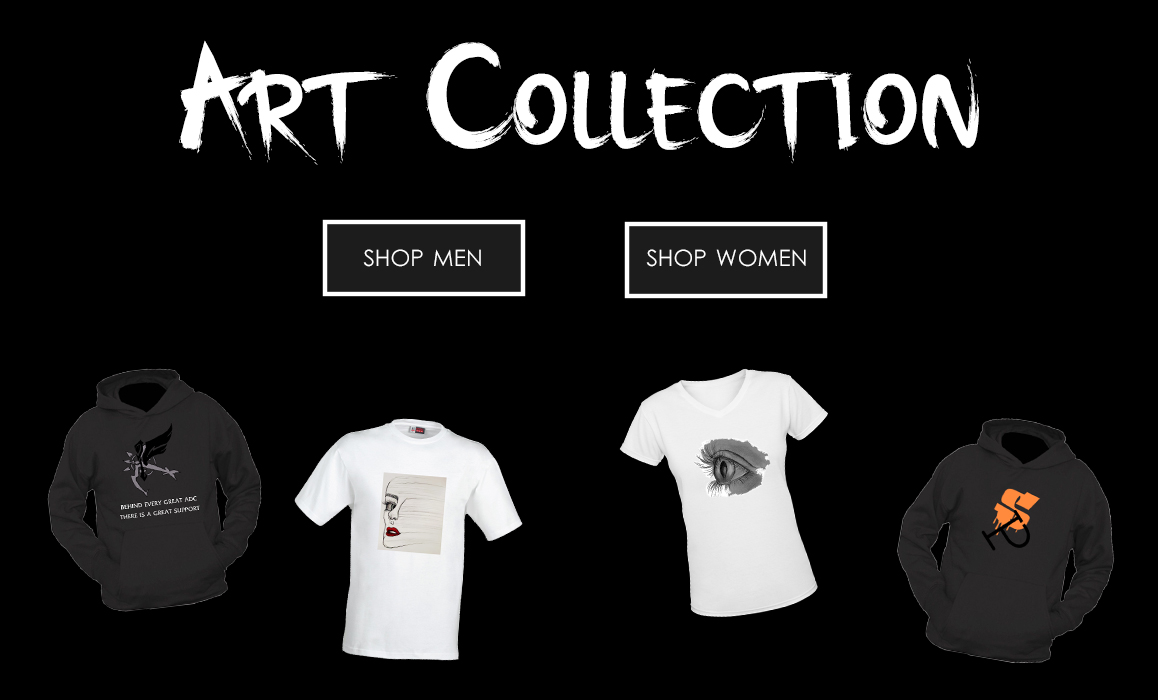
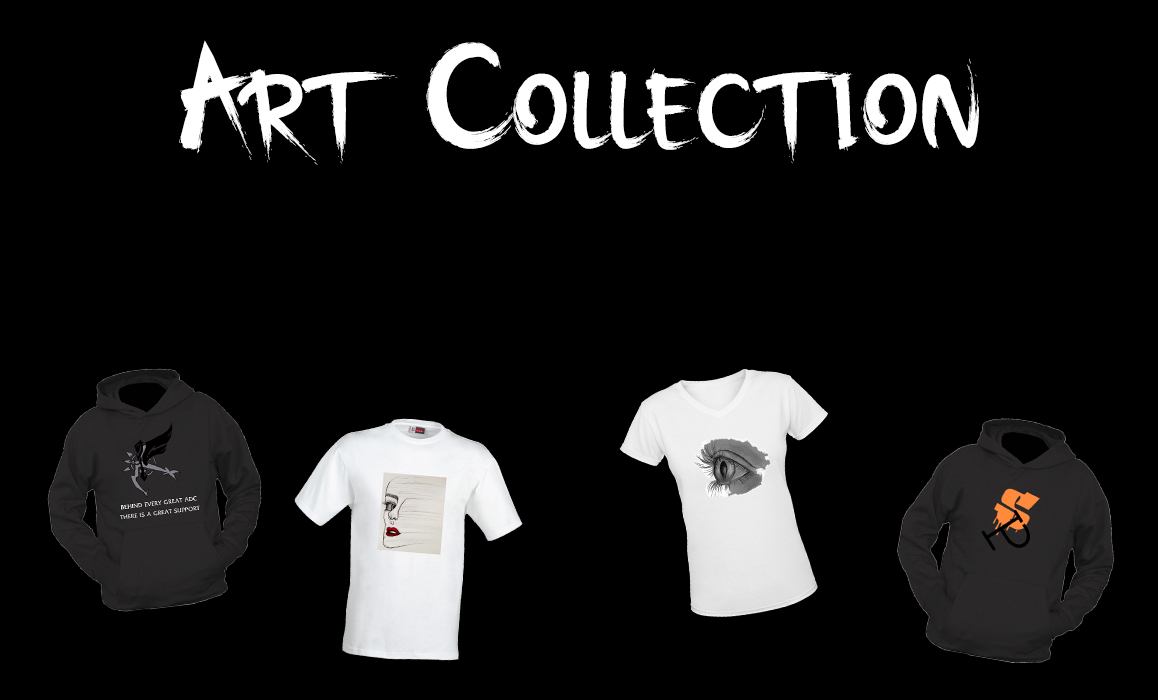
added shop collection and made instagram page

Changed region(s): [[0.5285, 0.3, 0.715, 0.45], [0.2798, 0.3, 0.4663, 0.45]]

diff --git a/shadowbox/shadowbox.js b/shadowbox/shadowbox.js
@@ -1,0 +1,17 @@
+/*
+ * Shadowbox.js, version 3.0.3
+ * http://shadowbox-js.com/
+ *
+ * Copyright 2007-2010, Michael J. I. Jackson
+ * Date: 2011-05-14 14:18:39 +0000
+ */
+(function(au,k){var Q={version:"3.0.3"};var J=navigator.userAgent.toLowerCase();if(J.indexOf("windows")>-1||J.indexOf("win32")>-1){Q.isWindows=true}else{if(J.indexOf("macintosh")>-1||J.indexOf("mac os x")>-1){Q.isMac=true}else{if(J.indexOf("linux")>-1){Q.isLinux=true}}}Q.isIE=J.indexOf("msie")>-1;Q.isIE6=J.indexOf("msie 6")>-1;Q.isIE7=J.indexOf("msie 7")>-1;Q.isGecko=J.indexOf("gecko")>-1&&J.indexOf("safari")==-1;Q.isWebKit=J.indexOf("applewebkit/")>-1;var ab=/#(.+)$/,af=/^(light|shadow)box\[(.*?)\]/i,az=/\s*([a-z_]*?)\s*=\s*(.+)\s*/,f=/[0-9a-z]+$/i,aD=/(.+\/)shadowbox\.js/i;var A=false,a=false,l={},z=0,R,ap;Q.current=-1;Q.dimensions=null;Q.ease=function(K){return 1+Math.pow(K-1,3)};Q.errorInfo={fla:{name:"Flash",url:"http://www.adobe.com/products/flashplayer/"},qt:{name:"QuickTime",url:"http://www.apple.com/quicktime/download/"},wmp:{name:"Windows Media Player",url:"http://www.microsoft.com/windows/windowsmedia/"},f4m:{name:"Flip4Mac",url:"http://www.flip4mac.com/wmv_download.htm"}};Q.gallery=[];Q.onReady=aj;Q.path=null;Q.player=null;Q.playerId="sb-player";Q.options={animate:true,animateFade:true,autoplayMovies:true,continuous:false,enableKeys:true,flashParams:{bgcolor:"#000000",allowfullscreen:true},flashVars:{},flashVersion:"9.0.115",handleOversize:"resize",handleUnsupported:"link",onChange:aj,onClose:aj,onFinish:aj,onOpen:aj,showMovieControls:true,skipSetup:false,slideshowDelay:0,viewportPadding:20};Q.getCurrent=function(){return Q.current>-1?Q.gallery[Q.current]:null};Q.hasNext=function(){return Q.gallery.length>1&&(Q.current!=Q.gallery.length-1||Q.options.continuous)};Q.isOpen=function(){return A};Q.isPaused=function(){return ap=="pause"};Q.applyOptions=function(K){l=aC({},Q.options);aC(Q.options,K)};Q.revertOptions=function(){aC(Q.options,l)};Q.init=function(aG,aJ){if(a){return}a=true;if(Q.skin.options){aC(Q.options,Q.skin.options)}if(aG){aC(Q.options,aG)}if(!Q.path){var aI,S=document.getElementsByTagName("script");for(var aH=0,K=S.length;aH<K;++aH){aI=aD.exec(S[aH].src);if(aI){Q.path=aI[1];break}}}if(aJ){Q.onReady=aJ}P()};Q.open=function(S){if(A){return}var K=Q.makeGallery(S);Q.gallery=K[0];Q.current=K[1];S=Q.getCurrent();if(S==null){return}Q.applyOptions(S.options||{});G();if(Q.gallery.length){S=Q.getCurrent();if(Q.options.onOpen(S)===false){return}A=true;Q.skin.onOpen(S,c)}};Q.close=function(){if(!A){return}A=false;if(Q.player){Q.player.remove();Q.player=null}if(typeof ap=="number"){clearTimeout(ap);ap=null}z=0;aq(false);Q.options.onClose(Q.getCurrent());Q.skin.onClose();Q.revertOptions()};Q.play=function(){if(!Q.hasNext()){return}if(!z){z=Q.options.slideshowDelay*1000}if(z){R=aw();ap=setTimeout(function(){z=R=0;Q.next()},z);if(Q.skin.onPlay){Q.skin.onPlay()}}};Q.pause=function(){if(typeof ap!="number"){return}z=Math.max(0,z-(aw()-R));if(z){clearTimeout(ap);ap="pause";if(Q.skin.onPause){Q.skin.onPause()}}};Q.change=function(K){if(!(K in Q.gallery)){if(Q.options.continuous){K=(K<0?Q.gallery.length+K:0);if(!(K in Q.gallery)){return}}else{return}}Q.current=K;if(typeof ap=="number"){clearTimeout(ap);ap=null;z=R=0}Q.options.onChange(Q.getCurrent());c(true)};Q.next=function(){Q.change(Q.current+1)};Q.previous=function(){Q.change(Q.current-1)};Q.setDimensions=function(aS,aJ,aQ,aR,aI,K,aO,aL){var aN=aS,aH=aJ;var aM=2*aO+aI;if(aS+aM>aQ){aS=aQ-aM}var aG=2*aO+K;if(aJ+aG>aR){aJ=aR-aG}var S=(aN-aS)/aN,aP=(aH-aJ)/aH,aK=(S>0||aP>0);if(aL&&aK){if(S>aP){aJ=Math.round((aH/aN)*aS)}else{if(aP>S){aS=Math.round((aN/aH)*aJ)}}}Q.dimensions={height:aS+aI,width:aJ+K,innerHeight:aS,innerWidth:aJ,top:Math.floor((aQ-(aS+aM))/2+aO),left:Math.floor((aR-(aJ+aG))/2+aO),oversized:aK};return Q.dimensions};Q.makeGallery=function(aI){var K=[],aH=-1;if(typeof aI=="string"){aI=[aI]}if(typeof aI.length=="number"){aF(aI,function(aK,aL){if(aL.content){K[aK]=aL}else{K[aK]={content:aL}}});aH=0}else{if(aI.tagName){var S=Q.getCache(aI);aI=S?S:Q.makeObject(aI)}if(aI.gallery){K=[];var aJ;for(var aG in Q.cache){aJ=Q.cache[aG];if(aJ.gallery&&aJ.gallery==aI.gallery){if(aH==-1&&aJ.content==aI.content){aH=K.length}K.push(aJ)}}if(aH==-1){K.unshift(aI);aH=0}}else{K=[aI];aH=0}}aF(K,function(aK,aL){K[aK]=aC({},aL)});return[K,aH]};Q.makeObject=function(aH,aG){var aI={content:aH.href,title:aH.getAttribute("title")||"",link:aH};if(aG){aG=aC({},aG);aF(["player","title","height","width","gallery"],function(aJ,aK){if(typeof aG[aK]!="undefined"){aI[aK]=aG[aK];delete aG[aK]}});aI.options=aG}else{aI.options={}}if(!aI.player){aI.player=Q.getPlayer(aI.content)}var K=aH.getAttribute("rel");if(K){var S=K.match(af);if(S){aI.gallery=escape(S[2])}aF(K.split(";"),function(aJ,aK){S=aK.match(az);if(S){aI[S[1]]=S[2]}})}return aI};Q.getPlayer=function(aG){if(aG.indexOf("#")>-1&&aG.indexOf(document.location.href)==0){return"inline"}var aH=aG.indexOf("?");if(aH>-1){aG=aG.substring(0,aH)}var S,K=aG.match(f);if(K){S=K[0].toLowerCase()}if(S){if(Q.img&&Q.img.ext.indexOf(S)>-1){return"img"}if(Q.swf&&Q.swf.ext.indexOf(S)>-1){return"swf"}if(Q.flv&&Q.flv.ext.indexOf(S)>-1){return"flv"}if(Q.qt&&Q.qt.ext.indexOf(S)>-1){if(Q.wmp&&Q.wmp.ext.indexOf(S)>-1){return"qtwmp"}else{return"qt"}}if(Q.wmp&&Q.wmp.ext.indexOf(S)>-1){return"wmp"}}return"iframe"};function G(){var aH=Q.errorInfo,aI=Q.plugins,aK,aL,aO,aG,aN,S,aM,K;for(var aJ=0;aJ<Q.gallery.length;++aJ){aK=Q.gallery[aJ];aL=false;aO=null;switch(aK.player){case"flv":case"swf":if(!aI.fla){aO="fla"}break;case"qt":if(!aI.qt){aO="qt"}break;case"wmp":if(Q.isMac){if(aI.qt&&aI.f4m){aK.player="qt"}else{aO="qtf4m"}}else{if(!aI.wmp){aO="wmp"}}break;case"qtwmp":if(aI.qt){aK.player="qt"}else{if(aI.wmp){aK.player="wmp"}else{aO="qtwmp"}}break}if(aO){if(Q.options.handleUnsupported=="link"){switch(aO){case"qtf4m":aN="shared";S=[aH.qt.url,aH.qt.name,aH.f4m.url,aH.f4m.name];break;case"qtwmp":aN="either";S=[aH.qt.url,aH.qt.name,aH.wmp.url,aH.wmp.name];break;default:aN="single";S=[aH[aO].url,aH[aO].name]}aK.player="html";aK.content='<div class="sb-message">'+s(Q.lang.errors[aN],S)+"</div>"}else{aL=true}}else{if(aK.player=="inline"){aG=ab.exec(aK.content);if(aG){aM=ad(aG[1]);if(aM){aK.content=aM.innerHTML}else{aL=true}}else{aL=true}}else{if(aK.player=="swf"||aK.player=="flv"){K=(aK.options&&aK.options.flashVersion)||Q.options.flashVersion;if(Q.flash&&!Q.flash.hasFlashPlayerVersion(K)){aK.width=310;aK.height=177}}}}if(aL){Q.gallery.splice(aJ,1);if(aJ<Q.current){--Q.current}else{if(aJ==Q.current){Q.current=aJ>0?aJ-1:aJ}}--aJ}}}function aq(K){if(!Q.options.enableKeys){return}(K?F:M)(document,"keydown",an)}function an(aG){if(aG.metaKey||aG.shiftKey||aG.altKey||aG.ctrlKey){return}var S=v(aG),K;switch(S){case 81:case 88:case 27:K=Q.close;break;case 37:K=Q.previous;break;case 39:K=Q.next;break;case 32:K=typeof ap=="number"?Q.pause:Q.play;break}if(K){n(aG);K()}}function c(aK){aq(false);var aJ=Q.getCurrent();var aG=(aJ.player=="inline"?"html":aJ.player);if(typeof Q[aG]!="function"){throw"unknown player "+aG}if(aK){Q.player.remove();Q.revertOptions();Q.applyOptions(aJ.options||{})}Q.player=new Q[aG](aJ,Q.playerId);if(Q.gallery.length>1){var aH=Q.gallery[Q.current+1]||Q.gallery[0];if(aH.player=="img"){var S=new Image();S.src=aH.content}var aI=Q.gallery[Q.current-1]||Q.gallery[Q.gallery.length-1];if(aI.player=="img"){var K=new Image();K.src=aI.content}}Q.skin.onLoad(aK,W)}function W(){if(!A){return}if(typeof Q.player.ready!="undefined"){var K=setInterval(function(){if(A){if(Q.player.ready){clearInterval(K);K=null;Q.skin.onReady(e)}}else{clearInterval(K);K=null}},10)}else{Q.skin.onReady(e)}}function e(){if(!A){return}Q.player.append(Q.skin.body,Q.dimensions);Q.skin.onShow(I)}function I(){if(!A){return}if(Q.player.onLoad){Q.player.onLoad()}Q.options.onFinish(Q.getCurrent());if(!Q.isPaused()){Q.play()}aq(true)}if(!Array.prototype.indexOf){Array.prototype.indexOf=function(S,aG){var K=this.length>>>0;aG=aG||0;if(aG<0){aG+=K}for(;aG<K;++aG){if(aG in this&&this[aG]===S){return aG}}return -1}}function aw(){return(new Date).getTime()}function aC(K,aG){for(var S in aG){K[S]=aG[S]}return K}function aF(aH,aI){var S=0,K=aH.length;for(var aG=aH[0];S<K&&aI.call(aG,S,aG)!==false;aG=aH[++S]){}}function s(S,K){return S.replace(/\{(\w+?)\}/g,function(aG,aH){return K[aH]})}function aj(){}function ad(K){return document.getElementById(K)}function C(K){K.parentNode.removeChild(K)}var h=true,x=true;function d(){var K=document.body,S=document.createElement("div");h=typeof S.style.opacity==="string";S.style.position="fixed";S.style.margin=0;S.style.top="20px";K.appendChild(S,K.firstChild);x=S.offsetTop==20;K.removeChild(S)}Q.getStyle=(function(){var K=/opacity=([^)]*)/,S=document.defaultView&&document.defaultView.getComputedStyle;return function(aJ,aI){var aH;if(!h&&aI=="opacity"&&aJ.currentStyle){aH=K.test(aJ.currentStyle.filter||"")?(parseFloat(RegExp.$1)/100)+"":"";return aH===""?"1":aH}if(S){var aG=S(aJ,null);if(aG){aH=aG[aI]}if(aI=="opacity"&&aH==""){aH="1"}}else{aH=aJ.currentStyle[aI]}return aH}})();Q.appendHTML=function(aG,S){if(aG.insertAdjacentHTML){aG.insertAdjacentHTML("BeforeEnd",S)}else{if(aG.lastChild){var K=aG.ownerDocument.createRange();K.setStartAfter(aG.lastChild);var aH=K.createContextualFragment(S);aG.appendChild(aH)}else{aG.innerHTML=S}}};Q.getWindowSize=function(K){if(document.compatMode==="CSS1Compat"){return document.documentElement["client"+K]}return document.body["client"+K]};Q.setOpacity=function(aG,K){var S=aG.style;if(h){S.opacity=(K==1?"":K)}else{S.zoom=1;if(K==1){if(typeof S.filter=="string"&&(/alpha/i).test(S.filter)){S.filter=S.filter.replace(/\s*[\w\.]*alpha\([^\)]*\);?/gi,"")}}else{S.filter=(S.filter||"").replace(/\s*[\w\.]*alpha\([^\)]*\)/gi,"")+" alpha(opacity="+(K*100)+")"}}};Q.clearOpacity=function(K){Q.setOpacity(K,1)};function o(S){var K=S.target?S.target:S.srcElement;return K.nodeType==3?K.parentNode:K}function V(S){var K=S.pageX||(S.clientX+(document.documentElement.scrollLeft||document.body.scrollLeft)),aG=S.pageY||(S.clientY+(document.documentElement.scrollTop||document.body.scrollTop));return[K,aG]}function n(K){K.preventDefault()}function v(K){return K.which?K.which:K.keyCode}function F(aH,aG,S){if(aH.addEventListener){aH.addEventListener(aG,S,false)}else{if(aH.nodeType===3||aH.nodeType===8){return}if(aH.setInterval&&(aH!==au&&!aH.frameElement)){aH=au}if(!S.__guid){S.__guid=F.guid++}if(!aH.events){aH.events={}}var K=aH.events[aG];if(!K){K=aH.events[aG]={};if(aH["on"+aG]){K[0]=aH["on"+aG]}}K[S.__guid]=S;aH["on"+aG]=F.handleEvent}}F.guid=1;F.handleEvent=function(aH){var K=true;aH=aH||F.fixEvent(((this.ownerDocument||this.document||this).parentWindow||au).event);var S=this.events[aH.type];for(var aG in S){this.__handleEvent=S[aG];if(this.__handleEvent(aH)===false){K=false}}return K};F.preventDefault=function(){this.returnValue=false};F.stopPropagation=function(){this.cancelBubble=true};F.fixEvent=function(K){K.preventDefault=F.preventDefault;K.stopPropagation=F.stopPropagation;return K};function M(aG,S,K){if(aG.removeEventListener){aG.removeEventListener(S,K,false)}else{if(aG.events&&aG.events[S]){delete aG.events[S][K.__guid]}}}var y=false,al;if(document.addEventListener){al=function(){document.removeEventListener("DOMContentLoaded",al,false);Q.load()}}else{if(document.attachEvent){al=function(){if(document.readyState==="complete"){document.detachEvent("onreadystatechange",al);Q.load()}}}}function g(){if(y){return}try{document.documentElement.doScroll("left")}catch(K){setTimeout(g,1);return}Q.load()}function P(){if(document.readyState==="complete"){return Q.load()}if(document.addEventListener){document.addEventListener("DOMContentLoaded",al,false);au.addEventListener("load",Q.load,false)}else{if(document.attachEvent){document.attachEvent("onreadystatechange",al);au.attachEvent("onload",Q.load);var K=false;try{K=au.frameElement===null}catch(S){}if(document.documentElement.doScroll&&K){g()}}}}Q.load=function(){if(y){return}if(!document.body){return setTimeout(Q.load,13)}y=true;d();Q.onReady();if(!Q.options.skipSetup){Q.setup()}Q.skin.init()};Q.plugins={};if(navigator.plugins&&navigator.plugins.length){var w=[];aF(navigator.plugins,function(K,S){w.push(S.name)});w=w.join(",");var ai=w.indexOf("Flip4Mac")>-1;Q.plugins={fla:w.indexOf("Shockwave Flash")>-1,qt:w.indexOf("QuickTime")>-1,wmp:!ai&&w.indexOf("Windows Media")>-1,f4m:ai}}else{var p=function(K){var S;try{S=new ActiveXObject(K)}catch(aG){}return !!S};Q.plugins={fla:p("ShockwaveFlash.ShockwaveFlash"),qt:p("QuickTime.QuickTime"),wmp:p("wmplayer.ocx"),f4m:false}}var X=/^(light|shadow)box/i,am="shadowboxCacheKey",b=1;Q.cache={};Q.select=function(S){var aG=[];if(!S){var K;aF(document.getElementsByTagName("a"),function(aJ,aK){K=aK.getAttribute("rel");if(K&&X.test(K)){aG.push(aK)}})}else{var aI=S.length;if(aI){if(typeof S=="string"){if(Q.find){aG=Q.find(S)}}else{if(aI==2&&typeof S[0]=="string"&&S[1].nodeType){if(Q.find){aG=Q.find(S[0],S[1])}}else{for(var aH=0;aH<aI;++aH){aG[aH]=S[aH]}}}}else{aG.push(S)}}return aG};Q.setup=function(K,S){aF(Q.select(K),function(aG,aH){Q.addCache(aH,S)})};Q.teardown=function(K){aF(Q.select(K),function(S,aG){Q.removeCache(aG)})};Q.addCache=function(aG,K){var S=aG[am];if(S==k){S=b++;aG[am]=S;F(aG,"click",u)}Q.cache[S]=Q.makeObject(aG,K)};Q.removeCache=function(K){M(K,"click",u);delete Q.cache[K[am]];K[am]=null};Q.getCache=function(S){var K=S[am];return(K in Q.cache&&Q.cache[K])};Q.clearCache=function(){for(var K in Q.cache){Q.removeCache(Q.cache[K].link)}Q.cache={}};function u(K){Q.open(this);if(Q.gallery.length){n(K)}}
+/*
+ * Sizzle CSS Selector Engine - v1.0
+ *  Copyright 2009, The Dojo Foundation
+ *  Released under the MIT, BSD, and GPL Licenses.
+ *  More information: http://sizzlejs.com/
+ *
+ * Modified for inclusion in Shadowbox.js
+ */
+Q.find=(function(){var aP=/((?:\((?:\([^()]+\)|[^()]+)+\)|\[(?:\[[^[\]]*\]|['"][^'"]*['"]|[^[\]'"]+)+\]|\\.|[^ >+~,(\[\\]+)+|[>+~])(\s*,\s*)?((?:.|\r|\n)*)/g,aQ=0,aS=Object.prototype.toString,aK=false,aJ=true;[0,0].sort(function(){aJ=false;return 0});var aG=function(a1,aW,a4,a5){a4=a4||[];var a7=aW=aW||document;if(aW.nodeType!==1&&aW.nodeType!==9){return[]}if(!a1||typeof a1!=="string"){return a4}var a2=[],aY,a9,bc,aX,a0=true,aZ=aH(aW),a6=a1;while((aP.exec(""),aY=aP.exec(a6))!==null){a6=aY[3];a2.push(aY[1]);if(aY[2]){aX=aY[3];break}}if(a2.length>1&&aL.exec(a1)){if(a2.length===2&&aM.relative[a2[0]]){a9=aT(a2[0]+a2[1],aW)}else{a9=aM.relative[a2[0]]?[aW]:aG(a2.shift(),aW);while(a2.length){a1=a2.shift();if(aM.relative[a1]){a1+=a2.shift()}a9=aT(a1,a9)}}}else{if(!a5&&a2.length>1&&aW.nodeType===9&&!aZ&&aM.match.ID.test(a2[0])&&!aM.match.ID.test(a2[a2.length-1])){var a8=aG.find(a2.shift(),aW,aZ);aW=a8.expr?aG.filter(a8.expr,a8.set)[0]:a8.set[0]}if(aW){var a8=a5?{expr:a2.pop(),set:aO(a5)}:aG.find(a2.pop(),a2.length===1&&(a2[0]==="~"||a2[0]==="+")&&aW.parentNode?aW.parentNode:aW,aZ);a9=a8.expr?aG.filter(a8.expr,a8.set):a8.set;if(a2.length>0){bc=aO(a9)}else{a0=false}while(a2.length){var bb=a2.pop(),ba=bb;if(!aM.relative[bb]){bb=""}else{ba=a2.pop()}if(ba==null){ba=aW}aM.relative[bb](bc,ba,aZ)}}else{bc=a2=[]}}if(!bc){bc=a9}if(!bc){throw"Syntax error, unrecognized expression: "+(bb||a1)}if(aS.call(bc)==="[object Array]"){if(!a0){a4.push.apply(a4,bc)}else{if(aW&&aW.nodeType===1){for(var a3=0;bc[a3]!=null;a3++){if(bc[a3]&&(bc[a3]===true||bc[a3].nodeType===1&&aN(aW,bc[a3]))){a4.push(a9[a3])}}}else{for(var a3=0;bc[a3]!=null;a3++){if(bc[a3]&&bc[a3].nodeType===1){a4.push(a9[a3])}}}}}else{aO(bc,a4)}if(aX){aG(aX,a7,a4,a5);aG.uniqueSort(a4)}return a4};aG.uniqueSort=function(aX){if(aR){aK=aJ;aX.sort(aR);if(aK){for(var aW=1;aW<aX.length;aW++){if(aX[aW]===aX[aW-1]){aX.splice(aW--,1)}}}}return aX};aG.matches=function(aW,aX){return aG(aW,null,null,aX)};aG.find=function(a3,aW,a4){var a2,a0;if(!a3){return[]}for(var aZ=0,aY=aM.order.length;aZ<aY;aZ++){var a1=aM.order[aZ],a0;if((a0=aM.leftMatch[a1].exec(a3))){var aX=a0[1];a0.splice(1,1);if(aX.substr(aX.length-1)!=="\\"){a0[1]=(a0[1]||"").replace(/\\/g,"");a2=aM.find[a1](a0,aW,a4);if(a2!=null){a3=a3.replace(aM.match[a1],"");break}}}}if(!a2){a2=aW.getElementsByTagName("*")}return{set:a2,expr:a3}};aG.filter=function(a6,a5,a9,aZ){var aY=a6,bb=[],a3=a5,a1,aW,a2=a5&&a5[0]&&aH(a5[0]);while(a6&&a5.length){for(var a4 in aM.filter){if((a1=aM.match[a4].exec(a6))!=null){var aX=aM.filter[a4],ba,a8;aW=false;if(a3===bb){bb=[]}if(aM.preFilter[a4]){a1=aM.preFilter[a4](a1,a3,a9,bb,aZ,a2);if(!a1){aW=ba=true}else{if(a1===true){continue}}}if(a1){for(var a0=0;(a8=a3[a0])!=null;a0++){if(a8){ba=aX(a8,a1,a0,a3);var a7=aZ^!!ba;if(a9&&ba!=null){if(a7){aW=true}else{a3[a0]=false}}else{if(a7){bb.push(a8);aW=true}}}}}if(ba!==k){if(!a9){a3=bb}a6=a6.replace(aM.match[a4],"");if(!aW){return[]}break}}}if(a6===aY){if(aW==null){throw"Syntax error, unrecognized expression: "+a6}else{break}}aY=a6}return a3};var aM=aG.selectors={order:["ID","NAME","TAG"],match:{ID:/#((?:[\w\u00c0-\uFFFF-]|\\.)+)/,CLASS:/\.((?:[\w\u00c0-\uFFFF-]|\\.)+)/,NAME:/\[name=['"]*((?:[\w\u00c0-\uFFFF-]|\\.)+)['"]*\]/,ATTR:/\[\s*((?:[\w\u00c0-\uFFFF-]|\\.)+)\s*(?:(\S?=)\s*(['"]*)(.*?)\3|)\s*\]/,TAG:/^((?:[\w\u00c0-\uFFFF\*-]|\\.)+)/,CHILD:/:(only|nth|last|first)-child(?:\((even|odd|[\dn+-]*)\))?/,POS:/:(nth|eq|gt|lt|first|last|even|odd)(?:\((\d*)\))?(?=[^-]|$)/,PSEUDO:/:((?:[\w\u00c0-\uFFFF-]|\\.)+)(?:\((['"]*)((?:\([^\)]+\)|[^\2\(\)]*)+)\2\))?/},leftMatch:{},attrMap:{"class":"className","for":"htmlFor"},attrHandle:{href:function(aW){return aW.getAttribute("href")}},relative:{"+":function(a2,aX){var aZ=typeof aX==="string",a1=aZ&&!/\W/.test(aX),a3=aZ&&!a1;if(a1){aX=aX.toLowerCase()}for(var aY=0,aW=a2.length,a0;aY<aW;aY++){if((a0=a2[aY])){while((a0=a0.previousSibling)&&a0.nodeType!==1){}a2[aY]=a3||a0&&a0.nodeName.toLowerCase()===aX?a0||false:a0===aX}}if(a3){aG.filter(aX,a2,true)}},">":function(a2,aX){var a0=typeof aX==="string";if(a0&&!/\W/.test(aX)){aX=aX.toLowerCase();for(var aY=0,aW=a2.length;aY<aW;aY++){var a1=a2[aY];if(a1){var aZ=a1.parentNode;a2[aY]=aZ.nodeName.toLowerCase()===aX?aZ:false}}}else{for(var aY=0,aW=a2.length;aY<aW;aY++){var a1=a2[aY];if(a1){a2[aY]=a0?a1.parentNode:a1.parentNode===aX}}if(a0){aG.filter(aX,a2,true)}}},"":function(aZ,aX,a1){var aY=aQ++,aW=aU;if(typeof aX==="string"&&!/\W/.test(aX)){var a0=aX=aX.toLowerCase();aW=K}aW("parentNode",aX,aY,aZ,a0,a1)},"~":function(aZ,aX,a1){var aY=aQ++,aW=aU;if(typeof aX==="string"&&!/\W/.test(aX)){var a0=aX=aX.toLowerCase();aW=K}aW("previousSibling",aX,aY,aZ,a0,a1)}},find:{ID:function(aX,aY,aZ){if(typeof aY.getElementById!=="undefined"&&!aZ){var aW=aY.getElementById(aX[1]);return aW?[aW]:[]}},NAME:function(aY,a1){if(typeof a1.getElementsByName!=="undefined"){var aX=[],a0=a1.getElementsByName(aY[1]);for(var aZ=0,aW=a0.length;aZ<aW;aZ++){if(a0[aZ].getAttribute("name")===aY[1]){aX.push(a0[aZ])}}return aX.length===0?null:aX}},TAG:function(aW,aX){return aX.getElementsByTagName(aW[1])}},preFilter:{CLASS:function(aZ,aX,aY,aW,a2,a3){aZ=" "+aZ[1].replace(/\\/g,"")+" ";if(a3){return aZ}for(var a0=0,a1;(a1=aX[a0])!=null;a0++){if(a1){if(a2^(a1.className&&(" "+a1.className+" ").replace(/[\t\n]/g," ").indexOf(aZ)>=0)){if(!aY){aW.push(a1)}}else{if(aY){aX[a0]=false}}}}return false},ID:function(aW){return aW[1].replace(/\\/g,"")},TAG:function(aX,aW){return aX[1].toLowerCase()},CHILD:function(aW){if(aW[1]==="nth"){var aX=/(-?)(\d*)n((?:\+|-)?\d*)/.exec(aW[2]==="even"&&"2n"||aW[2]==="odd"&&"2n+1"||!/\D/.test(aW[2])&&"0n+"+aW[2]||aW[2]);aW[2]=(aX[1]+(aX[2]||1))-0;aW[3]=aX[3]-0}aW[0]=aQ++;return aW},ATTR:function(a0,aX,aY,aW,a1,a2){var aZ=a0[1].replace(/\\/g,"");if(!a2&&aM.attrMap[aZ]){a0[1]=aM.attrMap[aZ]}if(a0[2]==="~="){a0[4]=" "+a0[4]+" "}return a0},PSEUDO:function(a0,aX,aY,aW,a1){if(a0[1]==="not"){if((aP.exec(a0[3])||"").length>1||/^\w/.test(a0[3])){a0[3]=aG(a0[3],null,null,aX)}else{var aZ=aG.filter(a0[3],aX,aY,true^a1);if(!aY){aW.push.apply(aW,aZ)}return false}}else{if(aM.match.POS.test(a0[0])||aM.match.CHILD.test(a0[0])){return true}}return a0},POS:function(aW){aW.unshift(true);return aW}},filters:{enabled:function(aW){return aW.disabled===false&&aW.type!=="hidden"},disabled:function(aW){return aW.disabled===true},checked:function(aW){return aW.checked===true},selected:function(aW){aW.parentNode.selectedIndex;return aW.selected===true},parent:function(aW){return !!aW.firstChild},empty:function(aW){return !aW.firstChild},has:function(aY,aX,aW){return !!aG(aW[3],aY).length},header:function(aW){return/h\d/i.test(aW.nodeName)},text:function(aW){return"text"===aW.type},radio:function(aW){return"radio"===aW.type},checkbox:function(aW){return"checkbox"===aW.type},file:function(aW){return"file"===aW.type},password:function(aW){return"password"===aW.type},submit:function(aW){return"submit"===aW.type},image:function(aW){return"image"===aW.type},reset:function(aW){return"reset"===aW.type},button:function(aW){return"button"===aW.type||aW.nodeName.toLowerCase()==="button"},input:function(aW){return/input|select|textarea|button/i.test(aW.nodeName)}},setFilters:{first:function(aX,aW){return aW===0},last:function(aY,aX,aW,aZ){return aX===aZ.length-1},even:function(aX,aW){return aW%2===0},odd:function(aX,aW){return aW%2===1},lt:function(aY,aX,aW){return aX<aW[3]-0},gt:function(aY,aX,aW){return aX>aW[3]-0},nth:function(aY,aX,aW){return aW[3]-0===aX},eq:function(aY,aX,aW){return aW[3]-0===aX}},filter:{PSEUDO:function(a2,aY,aZ,a3){var aX=aY[1],a0=aM.filters[aX];if(a0){return a0(a2,aZ,aY,a3)}else{if(aX==="contains"){return(a2.textContent||a2.innerText||S([a2])||"").indexOf(aY[3])>=0}else{if(aX==="not"){var a1=aY[3];for(var aZ=0,aW=a1.length;aZ<aW;aZ++){if(a1[aZ]===a2){return false}}return true}else{throw"Syntax error, unrecognized expression: "+aX}}}},CHILD:function(aW,aZ){var a2=aZ[1],aX=aW;switch(a2){case"only":case"first":while((aX=aX.previousSibling)){if(aX.nodeType===1){return false}}if(a2==="first"){return true}aX=aW;case"last":while((aX=aX.nextSibling)){if(aX.nodeType===1){return false}}return true;case"nth":var aY=aZ[2],a5=aZ[3];if(aY===1&&a5===0){return true}var a1=aZ[0],a4=aW.parentNode;if(a4&&(a4.sizcache!==a1||!aW.nodeIndex)){var a0=0;for(aX=a4.firstChild;aX;aX=aX.nextSibling){if(aX.nodeType===1){aX.nodeIndex=++a0}}a4.sizcache=a1}var a3=aW.nodeIndex-a5;if(aY===0){return a3===0}else{return(a3%aY===0&&a3/aY>=0)}}},ID:function(aX,aW){return aX.nodeType===1&&aX.getAttribute("id")===aW},TAG:function(aX,aW){return(aW==="*"&&aX.nodeType===1)||aX.nodeName.toLowerCase()===aW},CLASS:function(aX,aW){return(" "+(aX.className||aX.getAttribute("class"))+" ").indexOf(aW)>-1},ATTR:function(a1,aZ){var aY=aZ[1],aW=aM.attrHandle[aY]?aM.attrHandle[aY](a1):a1[aY]!=null?a1[aY]:a1.getAttribute(aY),a2=aW+"",a0=aZ[2],aX=aZ[4];return aW==null?a0==="!=":a0==="="?a2===aX:a0==="*="?a2.indexOf(aX)>=0:a0==="~="?(" "+a2+" ").indexOf(aX)>=0:!aX?a2&&aW!==false:a0==="!="?a2!==aX:a0==="^="?a2.indexOf(aX)===0:a0==="$="?a2.substr(a2.length-aX.length)===aX:a0==="|="?a2===aX||a2.substr(0,aX.length+1)===aX+"-":false},POS:function(a0,aX,aY,a1){var aW=aX[2],aZ=aM.setFilters[aW];if(aZ){return aZ(a0,aY,aX,a1)}}}};var aL=aM.match.POS;for(var aI in aM.match){aM.match[aI]=new RegExp(aM.match[aI].source+/(?![^\[]*\])(?![^\(]*\))/.source);aM.leftMatch[aI]=new RegExp(/(^(?:.|\r|\n)*?)/.source+aM.match[aI].source)}var aO=function(aX,aW){aX=Array.prototype.slice.call(aX,0);if(aW){aW.push.apply(aW,aX);return aW}return aX};try{Array.prototype.slice.call(document.documentElement.childNodes,0)}catch(aV){aO=function(a0,aZ){var aX=aZ||[];if(aS.call(a0)==="[object Array]"){Array.prototype.push.apply(aX,a0)}else{if(typeof a0.length==="number"){for(var aY=0,aW=a0.length;aY<aW;aY++){aX.push(a0[aY])}}else{for(var aY=0;a0[aY];aY++){aX.push(a0[aY])}}}return aX}}var aR;if(document.documentElement.compareDocumentPosition){aR=function(aX,aW){if(!aX.compareDocumentPosition||!aW.compareDocumentPosition){if(aX==aW){aK=true}return aX.compareDocumentPosition?-1:1}var aY=aX.compareDocumentPosition(aW)&4?-1:aX===aW?0:1;if(aY===0){aK=true}return aY}}else{if("sourceIndex" in document.documentElement){aR=function(aX,aW){if(!aX.sourceIndex||!aW.sourceIndex){if(aX==aW){aK=true}return aX.sourceIndex?-1:1}var aY=aX.sourceIndex-aW.sourceIndex;if(aY===0){aK=true}return aY}}else{if(document.createRange){aR=function(aZ,aX){if(!aZ.ownerDocument||!aX.ownerDocument){if(aZ==aX){aK=true}return aZ.ownerDocument?-1:1}var aY=aZ.ownerDocument.createRange(),aW=aX.ownerDocument.createRange();aY.setStart(aZ,0);aY.setEnd(aZ,0);aW.setStart(aX,0);aW.setEnd(aX,0);var a0=aY.compareBoundaryPoints(Range.START_TO_END,aW);if(a0===0){aK=true}return a0}}}}function S(aW){var aX="",aZ;for(var aY=0;aW[aY];aY++){aZ=aW[aY];if(aZ.nodeType===3||aZ.nodeType===4){aX+=aZ.nodeValue}else{if(aZ.nodeType!==8){aX+=S(aZ.childNodes)}}}return aX}(function(){var aX=document.createElement("div"),aY="script"+(new Date).getTime();aX.innerHTML="<a name='"+aY+"'/>";var aW=document.documentElement;aW.insertBefore(aX,aW.firstChild);if(document.getElementById(aY)){aM.find.ID=function(a0,a1,a2){if(typeof a1.getElementById!=="undefined"&&!a2){var aZ=a1.getElementById(a0[1]);return aZ?aZ.id===a0[1]||typeof aZ.getAttributeNode!=="undefined"&&aZ.getAttributeNode("id").nodeValue===a0[1]?[aZ]:k:[]}};aM.filter.ID=function(a1,aZ){var a0=typeof a1.getAttributeNode!=="undefined"&&a1.getAttributeNode("id");return a1.nodeType===1&&a0&&a0.nodeValue===aZ}}aW.removeChild(aX);aW=aX=null})();(function(){var aW=document.createElement("div");aW.appendChild(document.createComment(""));if(aW.getElementsByTagName("*").length>0){aM.find.TAG=function(aX,a1){var a0=a1.getElementsByTagName(aX[1]);if(aX[1]==="*"){var aZ=[];for(var aY=0;a0[aY];aY++){if(a0[aY].nodeType===1){aZ.push(a0[aY])}}a0=aZ}return a0}}aW.innerHTML="<a href='#'></a>";if(aW.firstChild&&typeof aW.firstChild.getAttribute!=="undefined"&&aW.firstChild.getAttribute("href")!=="#"){aM.attrHandle.href=function(aX){return aX.getAttribute("href",2)}}aW=null})();if(document.querySelectorAll){(function(){var aW=aG,aY=document.createElement("div");aY.innerHTML="<p class='TEST'></p>";if(aY.querySelectorAll&&aY.querySelectorAll(".TEST").length===0){return}aG=function(a2,a1,aZ,a0){a1=a1||document;if(!a0&&a1.nodeType===9&&!aH(a1)){try{return aO(a1.querySelectorAll(a2),aZ)}catch(a3){}}return aW(a2,a1,aZ,a0)};for(var aX in aW){aG[aX]=aW[aX]}aY=null})()}(function(){var aW=document.createElement("div");aW.innerHTML="<div class='test e'></div><div class='test'></div>";if(!aW.getElementsByClassName||aW.getElementsByClassName("e").length===0){return}aW.lastChild.className="e";if(aW.getElementsByClassName("e").length===1){return}aM.order.splice(1,0,"CLASS");aM.find.CLASS=function(aX,aY,aZ){if(typeof aY.getElementsByClassName!=="undefined"&&!aZ){return aY.getElementsByClassName(aX[1])}};aW=null})();function K(aX,a2,a1,a5,a3,a4){for(var aZ=0,aY=a5.length;aZ<aY;aZ++){var aW=a5[aZ];if(aW){aW=aW[aX];var a0=false;while(aW){if(aW.sizcache===a1){a0=a5[aW.sizset];break}if(aW.nodeType===1&&!a4){aW.sizcache=a1;aW.sizset=aZ}if(aW.nodeName.toLowerCase()===a2){a0=aW;break}aW=aW[aX]}a5[aZ]=a0}}}function aU(aX,a2,a1,a5,a3,a4){for(var aZ=0,aY=a5.length;aZ<aY;aZ++){var aW=a5[aZ];if(aW){aW=aW[aX];var a0=false;while(aW){if(aW.sizcache===a1){a0=a5[aW.sizset];break}if(aW.nodeType===1){if(!a4){aW.sizcache=a1;aW.sizset=aZ}if(typeof a2!=="string"){if(aW===a2){a0=true;break}}else{if(aG.filter(a2,[aW]).length>0){a0=aW;break}}}aW=aW[aX]}a5[aZ]=a0}}}var aN=document.compareDocumentPosition?function(aX,aW){return aX.compareDocumentPosition(aW)&16}:function(aX,aW){return aX!==aW&&(aX.contains?aX.contains(aW):true)};var aH=function(aW){var aX=(aW?aW.ownerDocument||aW:0).documentElement;return aX?aX.nodeName!=="HTML":false};var aT=function(aW,a3){var aZ=[],a0="",a1,aY=a3.nodeType?[a3]:a3;while((a1=aM.match.PSEUDO.exec(aW))){a0+=a1[0];aW=aW.replace(aM.match.PSEUDO,"")}aW=aM.relative[aW]?aW+"*":aW;for(var a2=0,aX=aY.length;a2<aX;a2++){aG(aW,aY[a2],aZ)}return aG.filter(a0,aZ)};return aG})();Q.lang={code:"de",of:"von",loading:"ladend",cancel:"Abbrechen",next:"Nächste",previous:"Vorige",play:"Abspielen",pause:"Pause",close:"Schließen",errors:{single:'Um den Inhalt anzeigen zu können muss die Browser-Erweiterung <a href="{0}">{1}</a> installiert werden.',shared:'Um den Inhalt anzeigen zu können müssen die beiden Browser-Erweiterungen <a href="{0}">{1}</a> und <a href="{2}">{3}</a> installiert werden.',either:'Um den Inhalt anzeigen zu können muss eine der beiden Browser-Erweiterungen <a href="{0}">{1}</a> oder <a href="{2}">{3}</a> installiert werden.'}};var D,at="sb-drag-proxy",E,j,ag;function ax(){E={x:0,y:0,startX:null,startY:null}}function aA(){var K=Q.dimensions;aC(j.style,{height:K.innerHeight+"px",width:K.innerWidth+"px"})}function O(){ax();var K=["position:absolute","cursor:"+(Q.isGecko?"-moz-grab":"move"),"background-color:"+(Q.isIE?"#fff;filter:alpha(opacity=0)":"transparent")].join(";");Q.appendHTML(Q.skin.body,'<div id="'+at+'" style="'+K+'"></div>');j=ad(at);aA();F(j,"mousedown",L)}function B(){if(j){M(j,"mousedown",L);C(j);j=null}ag=null}function L(S){n(S);var K=V(S);E.startX=K[0];E.startY=K[1];ag=ad(Q.player.id);F(document,"mousemove",H);F(document,"mouseup",i);if(Q.isGecko){j.style.cursor="-moz-grabbing"}}function H(aI){var K=Q.player,aJ=Q.dimensions,aH=V(aI);var aG=aH[0]-E.startX;E.startX+=aG;E.x=Math.max(Math.min(0,E.x+aG),aJ.innerWidth-K.width);var S=aH[1]-E.startY;E.startY+=S;E.y=Math.max(Math.min(0,E.y+S),aJ.innerHeight-K.height);aC(ag.style,{left:E.x+"px",top:E.y+"px"})}function i(){M(document,"mousemove",H);M(document,"mouseup",i);if(Q.isGecko){j.style.cursor="-moz-grab"}}Q.img=function(S,aG){this.obj=S;this.id=aG;this.ready=false;var K=this;D=new Image();D.onload=function(){K.height=S.height?parseInt(S.height,10):D.height;K.width=S.width?parseInt(S.width,10):D.width;K.ready=true;D.onload=null;D=null};D.src=S.content};Q.img.ext=["bmp","gif","jpg","jpeg","png"];Q.img.prototype={append:function(S,aI){var aG=document.createElement("img");aG.id=this.id;aG.src=this.obj.content;aG.style.position="absolute";var K,aH;if(aI.oversized&&Q.options.handleOversize=="resize"){K=aI.innerHeight;aH=aI.innerWidth}else{K=this.height;aH=this.width}aG.setAttribute("height",K);aG.setAttribute("width",aH);S.appendChild(aG)},remove:function(){var K=ad(this.id);if(K){C(K)}B();if(D){D.onload=null;D=null}},onLoad:function(){var K=Q.dimensions;if(K.oversized&&Q.options.handleOversize=="drag"){O()}},onWindowResize:function(){var aH=Q.dimensions;switch(Q.options.handleOversize){case"resize":var K=ad(this.id);K.height=aH.innerHeight;K.width=aH.innerWidth;break;case"drag":if(ag){var aG=parseInt(Q.getStyle(ag,"top")),S=parseInt(Q.getStyle(ag,"left"));if(aG+this.height<aH.innerHeight){ag.style.top=aH.innerHeight-this.height+"px"}if(S+this.width<aH.innerWidth){ag.style.left=aH.innerWidth-this.width+"px"}aA()}break}}};var ao=false,Y=[],q=["sb-nav-close","sb-nav-next","sb-nav-play","sb-nav-pause","sb-nav-previous"],aa,ae,Z,m=true;function N(aG,aQ,aN,aL,aR){var K=(aQ=="opacity"),aM=K?Q.setOpacity:function(aS,aT){aS.style[aQ]=""+aT+"px"};if(aL==0||(!K&&!Q.options.animate)||(K&&!Q.options.animateFade)){aM(aG,aN);if(aR){aR()}return}var aO=parseFloat(Q.getStyle(aG,aQ))||0;var aP=aN-aO;if(aP==0){if(aR){aR()}return}aL*=1000;var aH=aw(),aK=Q.ease,aJ=aH+aL,aI;var S=setInterval(function(){aI=aw();if(aI>=aJ){clearInterval(S);S=null;aM(aG,aN);if(aR){aR()}}else{aM(aG,aO+aK((aI-aH)/aL)*aP)}},10)}function aB(){aa.style.height=Q.getWindowSize("Height")+"px";aa.style.width=Q.getWindowSize("Width")+"px"}function aE(){aa.style.top=document.documentElement.scrollTop+"px";aa.style.left=document.documentElement.scrollLeft+"px"}function ay(K){if(K){aF(Y,function(S,aG){aG[0].style.visibility=aG[1]||""})}else{Y=[];aF(Q.options.troubleElements,function(aG,S){aF(document.getElementsByTagName(S),function(aH,aI){Y.push([aI,aI.style.visibility]);aI.style.visibility="hidden"})})}}function r(aG,K){var S=ad("sb-nav-"+aG);if(S){S.style.display=K?"":"none"}}function ah(K,aJ){var aI=ad("sb-loading"),aG=Q.getCurrent().player,aH=(aG=="img"||aG=="html");if(K){Q.setOpacity(aI,0);aI.style.display="block";var S=function(){Q.clearOpacity(aI);if(aJ){aJ()}};if(aH){N(aI,"opacity",1,Q.options.fadeDuration,S)}else{S()}}else{var S=function(){aI.style.display="none";Q.clearOpacity(aI);if(aJ){aJ()}};if(aH){N(aI,"opacity",0,Q.options.fadeDuration,S)}else{S()}}}function t(aO){var aJ=Q.getCurrent();ad("sb-title-inner").innerHTML=aJ.title||"";var aP,aL,S,aQ,aM;if(Q.options.displayNav){aP=true;var aN=Q.gallery.length;if(aN>1){if(Q.options.continuous){aL=aM=true}else{aL=(aN-1)>Q.current;aM=Q.current>0}}if(Q.options.slideshowDelay>0&&Q.hasNext()){aQ=!Q.isPaused();S=!aQ}}else{aP=aL=S=aQ=aM=false}r("close",aP);r("next",aL);r("play",S);r("pause",aQ);r("previous",aM);var K="";if(Q.options.displayCounter&&Q.gallery.length>1){var aN=Q.gallery.length;if(Q.options.counterType=="skip"){var aI=0,aH=aN,aG=parseInt(Q.options.counterLimit)||0;if(aG<aN&&aG>2){var aK=Math.floor(aG/2);aI=Q.current-aK;if(aI<0){aI+=aN}aH=Q.current+(aG-aK);if(aH>aN){aH-=aN}}while(aI!=aH){if(aI==aN){aI=0}K+='<a onclick="Shadowbox.change('+aI+');"';if(aI==Q.current){K+=' class="sb-counter-current"'}K+=">"+(++aI)+"</a>"}}else{K=[Q.current+1,Q.lang.of,aN].join(" ")}}ad("sb-counter").innerHTML=K;aO()}function U(aH){var K=ad("sb-title-inner"),aG=ad("sb-info-inner"),S=0.35;K.style.visibility=aG.style.visibility="";if(K.innerHTML!=""){N(K,"marginTop",0,S)}N(aG,"marginTop",0,S,aH)}function av(aG,aM){var aK=ad("sb-title"),K=ad("sb-info"),aH=aK.offsetHeight,aI=K.offsetHeight,aJ=ad("sb-title-inner"),aL=ad("sb-info-inner"),S=(aG?0.35:0);N(aJ,"marginTop",aH,S);N(aL,"marginTop",aI*-1,S,function(){aJ.style.visibility=aL.style.visibility="hidden";aM()})}function ac(K,aH,S,aJ){var aI=ad("sb-wrapper-inner"),aG=(S?Q.options.resizeDuration:0);N(Z,"top",aH,aG);N(aI,"height",K,aG,aJ)}function ar(K,aH,S,aI){var aG=(S?Q.options.resizeDuration:0);N(Z,"left",aH,aG);N(Z,"width",K,aG,aI)}function ak(aM,aG){var aI=ad("sb-body-inner"),aM=parseInt(aM),aG=parseInt(aG),S=Z.offsetHeight-aI.offsetHeight,K=Z.offsetWidth-aI.offsetWidth,aK=ae.offsetHeight,aL=ae.offsetWidth,aJ=parseInt(Q.options.viewportPadding)||20,aH=(Q.player&&Q.options.handleOversize!="drag");return Q.setDimensions(aM,aG,aK,aL,S,K,aJ,aH)}var T={};T.markup='<div id="sb-container"><div id="sb-overlay"></div><div id="sb-wrapper"><div id="sb-title"><div id="sb-title-inner"></div></div><div id="sb-wrapper-inner"><div id="sb-body"><div id="sb-body-inner"></div><div id="sb-loading"><div id="sb-loading-inner"><span>{loading}</span></div></div></div></div><div id="sb-info"><div id="sb-info-inner"><div id="sb-counter"></div><div id="sb-nav"><a id="sb-nav-close" title="{close}" onclick="Shadowbox.close()"></a><a id="sb-nav-next" title="{next}" onclick="Shadowbox.next()"></a><a id="sb-nav-play" title="{play}" onclick="Shadowbox.play()"></a><a id="sb-nav-pause" title="{pause}" onclick="Shadowbox.pause()"></a><a id="sb-nav-previous" title="{previous}" onclick="Shadowbox.previous()"></a></div></div></div></div></div>';T.options={animSequence:"sync",counterLimit:10,counterType:"default",displayCounter:true,displayNav:true,fadeDuration:0.35,initialHeight:160,initialWidth:320,modal:false,overlayColor:"#000",overlayOpacity:0.5,resizeDuration:0.35,showOverlay:true,troubleElements:["select","object","embed","canvas"]};T.init=function(){Q.appendHTML(document.body,s(T.markup,Q.lang));T.body=ad("sb-body-inner");aa=ad("sb-container");ae=ad("sb-overlay");Z=ad("sb-wrapper");if(!x){aa.style.position="absolute"}if(!h){var aG,K,S=/url\("(.*\.png)"\)/;aF(q,function(aI,aJ){aG=ad(aJ);if(aG){K=Q.getStyle(aG,"backgroundImage").match(S);if(K){aG.style.backgroundImage="none";aG.style.filter="progid:DXImageTransform.Microsoft.AlphaImageLoader(enabled=true,src="+K[1]+",sizingMethod=scale);"}}})}var aH;F(au,"resize",function(){if(aH){clearTimeout(aH);aH=null}if(A){aH=setTimeout(T.onWindowResize,10)}})};T.onOpen=function(K,aG){m=false;aa.style.display="block";aB();var S=ak(Q.options.initialHeight,Q.options.initialWidth);ac(S.innerHeight,S.top);ar(S.width,S.left);if(Q.options.showOverlay){ae.style.backgroundColor=Q.options.overlayColor;Q.setOpacity(ae,0);if(!Q.options.modal){F(ae,"click",Q.close)}ao=true}if(!x){aE();F(au,"scroll",aE)}ay();aa.style.visibility="visible";if(ao){N(ae,"opacity",Q.options.overlayOpacity,Q.options.fadeDuration,aG)}else{aG()}};T.onLoad=function(S,K){ah(true);while(T.body.firstChild){C(T.body.firstChild)}av(S,function(){if(!A){return}if(!S){Z.style.visibility="visible"}t(K)})};T.onReady=function(aH){if(!A){return}var S=Q.player,aG=ak(S.height,S.width);var K=function(){U(aH)};switch(Q.options.animSequence){case"hw":ac(aG.innerHeight,aG.top,true,function(){ar(aG.width,aG.left,true,K)});break;case"wh":ar(aG.width,aG.left,true,function(){ac(aG.innerHeight,aG.top,true,K)});break;default:ar(aG.width,aG.left,true);ac(aG.innerHeight,aG.top,true,K)}};T.onShow=function(K){ah(false,K);m=true};T.onClose=function(){if(!x){M(au,"scroll",aE)}M(ae,"click",Q.close);Z.style.visibility="hidden";var K=function(){aa.style.visibility="hidden";aa.style.display="none";ay(true)};if(ao){N(ae,"opacity",0,Q.options.fadeDuration,K)}else{K()}};T.onPlay=function(){r("play",false);r("pause",true)};T.onPause=function(){r("pause",false);r("play",true)};T.onWindowResize=function(){if(!m){return}aB();var K=Q.player,S=ak(K.height,K.width);ar(S.width,S.left);ac(S.innerHeight,S.top);if(K.onWindowResize){K.onWindowResize()}};Q.skin=T;au.Shadowbox=Q})(window);

diff --git a/shadowbox/shadowbox.css b/shadowbox/shadowbox.css
@@ -1,0 +1,30 @@
+#sb-title-inner,#sb-info-inner,#sb-loading-inner,div.sb-message{font-family:"HelveticaNeue-Light","Helvetica Neue",Helvetica,Arial,sans-serif;font-weight:200;color:#fff;}
+#sb-container{position:fixed;margin:0;padding:0;top:0;left:0;z-index:999;text-align:left;visibility:hidden;display:none;}
+#sb-overlay{position:relative;height:100%;width:100%;}
+#sb-wrapper{position:absolute;visibility:hidden;width:100px;}
+#sb-wrapper-inner{position:relative;border:1px solid #303030;overflow:hidden;height:100px;}
+#sb-body{position:relative;height:100%;}
+#sb-body-inner{position:absolute;height:100%;width:100%;}
+#sb-player.html{height:100%;overflow:auto;}
+#sb-body img{border:none;}
+#sb-loading{position:relative;height:100%;}
+#sb-loading-inner{position:absolute;font-size:14px;line-height:24px;height:24px;top:50%;margin-top:-12px;width:100%;text-align:center;}
+#sb-loading-inner span{background:url(loading.gif) no-repeat;padding-left:34px;display:inline-block;}
+#sb-body,#sb-loading{background-color:#060606;}
+#sb-title,#sb-info{position:relative;margin:0;padding:0;overflow:hidden;}
+#sb-title,#sb-title-inner{height:26px;line-height:26px;}
+#sb-title-inner{font-size:16px;}
+#sb-info,#sb-info-inner{height:20px;line-height:20px;}
+#sb-info-inner{font-size:12px;}
+#sb-nav{float:right;height:16px;padding:2px 0;width:45%;}
+#sb-nav a{display:block;float:right;height:16px;width:16px;margin-left:3px;cursor:pointer;background-repeat:no-repeat;}
+#sb-nav-close{background-image:url(close.png);}
+#sb-nav-next{background-image:url(next.png);}
+#sb-nav-previous{background-image:url(previous.png);}
+#sb-nav-play{background-image:url(play.png);}
+#sb-nav-pause{background-image:url(pause.png);}
+#sb-counter{float:left;width:45%;}
+#sb-counter a{padding:0 4px 0 0;text-decoration:none;cursor:pointer;color:#fff;}
+#sb-counter a.sb-counter-current{text-decoration:underline;}
+div.sb-message{font-size:12px;padding:10px;text-align:center;}
+div.sb-message a:link,div.sb-message a:visited{color:#fff;text-decoration:underline;}

diff --git a/html/instagram.html b/html/instagram.html
@@ -6,6 +6,7 @@
     <meta charset="UTF-8">
     <link href="/favicon.ico" rel="shortcut icon"/>
     <link href="/css/style.css" type="text/css" rel="stylesheet">
+    <link href="/css/instagram.css" type="text/css" rel="stylesheet">
 </head>
 
 <body>
@@ -50,14 +51,31 @@
 <main>
 
 
-    <h1>Sahani Peiris</h1>
-    <img id="pb" src="/img/sahani.jpeg" alt="picture of sahani"/>
-    <p> SAHANI BIO</p>
-    <p>TEXT</p>
+      
 
-    <news>
-        <p>LATEST NEWS</p>
-    </news>
+    <table id="table">
+        <tr>
+            <td></td>
+            <td></td>
+            <td></td>
+        </tr>
+        <tr>
+            <td><a href="https://www.instagram.com/p/CHXmEr7hJh_/"><img src="/img/insta/insta3.png" alt="Insta Pic 1"/></a></td>
+            <td><a href="https://www.instagram.com/p/CHXl4NxBF-6/"><img src="/img/insta/insta2.png" alt="Insta Pic 2"/></a></td>
+            <td><a href="https://www.instagram.com/p/CHXlxTchQvU/"><img src="/img/insta/insta1.png" alt="Insta Pic 3"/></a></td>
+        </tr>
+        <tr>
+            <td><a href="https://www.instagram.com/p/CBCENfCDqnQ/"><img src="/img/insta/insta4.png" alt="Insta Pic 4"/></a></td>
+            <td><a href="https://www.instagram.com/p/CBCCkW2j1hx/"><img src="/img/insta/insta5.png" alt="Insta Pic 5"/></a></td>
+            <td><a href="https://www.instagram.com/p/CBB-yqBjdYb/"><img src="/img/insta/insta6.png" alt="Insta Pic 6"/></a></td>
+        </tr>
+        <tr>
+            <td><a href="https://www.instagram.com/p/B_zeWcTDWw4/"><img src="/img/insta/insta7.png" alt="Insta Pic 7"/></a></td>
+            <td><a href="https://www.instagram.com/p/B_zd-IVjGJc/"><img src="/img/insta/insta8.png" alt="Insta Pic 8"/></a></td>
+            <td><a href="https://www.instagram.com/p/B_zdmrSD_nY/"><img src="/img/insta/insta9.png" alt="Insta Pic 9"/></a></td>
+        </tr>
+    </table>
+
 </main>
 
 <footer>

diff --git a/html/shop.html b/html/shop.html
@@ -4,8 +4,17 @@
     <title>Life of Sahani</title>
 
     <meta charset="UTF-8">
+    <script src="/js/shop.js"></script>
     <link href="/favicon.ico" rel="shortcut icon"/>
     <link href="/css/style.css" type="text/css" rel="stylesheet">
+    <link href="/css/shop.css" type="text/css" rel="stylesheet">
+
+<!-- Start shadowbox section -->
+    <link href="shadowbox/shadowbox.css" type="text/css" rel="stylesheet">
+    <script type="text/javascript" src="shadowbox/shadowbox.js"></script>
+    <script type="text/javascript">Shadowbox.init();</script>
+<!-- End shadowbox section -->
+
 </head>
 
 <body>
@@ -49,15 +58,25 @@
 
 <main>
 
+ <!--    <a href="2_Bilder/prague/bild1.jpg" rel="shadowbox[london]" title="group"><img src="2_Bilder/prague/bild1_kl.jpg" alt="Baustelle Website"/></a> -->
 
-    <h1>Sahani Peiris</h1>
-    <img id="pb" src="/img/sahani.jpeg" alt="picture of sahani"/>
-    <p> SAHANI BIO</p>
-    <p>TEXT</p>
-
-    <news>
-        <p>LATEST NEWS</p>
-    </news>
+    <img id="start" src="/img/shop/shop_start.jpg" alt="button"/>
+    <img id="women_btn" src="/img/shop/women_button.jpg" alt="button"/>
+    <img id="men_btn" src="/img/shop/men_button.jpg" alt="button"/> 
+    <table>
+        <tr>
+            <td><img class="men"></td>
+            <td><img class="men"></td>
+        </tr>
+        <tr>
+            <td>White Men T-Shirt</td>
+            <td>White Men T-Shirt</td>
+        </tr>
+        <tr>
+            <td><img class="unisex" src="/img/shop/black_pullover_1.png"></td>
+            <td><img class="unisex" src="/img/shop/black_pullover_2.png"></td>
+        </tr>
+    </table>
 </main>
 
 <footer>

diff --git a/js/shop.js b/js/shop.js
@@ -1,0 +1,31 @@
+document.addEventListener("DOMContentLoaded", function(event) {
+
+    function switchToMen() {
+        let img = document.getElementsByClassName("women");
+        const menShirt = ["/img/shop/white-men_tshirt_1.png", "/img/shop/white-men_tshirt_2.png"];
+
+        for (let i = 0; i < menShirt.length; i++) {
+            img[i].src = menShirt[i];
+            img[i].className = "men";
+            img[i].alt = "men tshirt";
+            
+        }
+    }
+
+    function switchToWomen() {
+        var img = document.getElementsByClassName("men");
+        const womenShirt = ["/img/shop/white-women_tshirt_1.png", "/img/shop/white-women_shirt_2.png"];
+        let i = 0;
+
+        for (i = 0; i < womenShirt.length; i++) {
+            img[i].src = womenShirt[i];
+            img[i].className = "women";
+            img[i].alt = "women tshirt";
+        }
+    }
+
+    let changeToMen = document.getElementById("women_btn");
+    let changeToWomen = document.getElementById("men_btn");
+    changeToMen.addEventListener("click",switchToWomen);
+    changeToWomen.addEventListener("click", switchToMen);
+});

diff --git a/css/style.css b/css/style.css
@@ -12,19 +12,17 @@ body {
 }
 
 header {
+  width: 100%;
+  background-color: #000000;
   position: relative;
 }
 
 aside {
   width: 190px;
-  height: 376px;
+  height: 381px;
   background-color: #991803;
   float: right;
   border: 1px black;
-  padding-left: 10px;
-  margin-left: 1637px;
-  margin-top: -381px;
-  margin-right: 65px;
 }
 
 .logo {
@@ -33,7 +31,7 @@ aside {
 }
 
 nav {
-  width: 1837px;
+  width: 100%;
   height: 57px;
   background-color: #383838;
   margin-top: -5px;
@@ -91,5 +89,9 @@ main {
 
 footer {
   background-color: black;
-  height: 50px;
+  height: 30px;
+  width: 100%;
+  top: 800px;
+  bottom: 0;
+  position: relative;
 }

diff --git a/css/shop.css b/css/shop.css
@@ -1,0 +1,43 @@
+* {
+    margin: 0;
+    padding: 0;
+}
+
+.men {
+    width: 350px;
+    height: 350px;
+    margin-right: 100px;
+}
+
+.women {
+    width: 350px;
+    height: 350px;
+}
+
+.unisex {
+    width: 350px;
+    height: 350px;
+}
+
+#start {
+    display: block;
+    margin-left: auto;
+    margin-right: auto;
+    
+}
+#women_btn{
+    position: absolute;
+    top: 650px;
+    right: 1060px;
+    padding-right:50px;
+    
+}
+#men_btn {
+    position: absolute;
+    top:650px;
+    left: 1100px;
+}
+
+
+
+

diff --git a/css/instagram.css b/css/instagram.css
@@ -1,0 +1,9 @@
+#table{
+    margin-left: auto;
+    margin-right: auto;
+}
+
+td{
+    padding: 10px;
+    padding: 10px 10px 10px 10px;
+}
